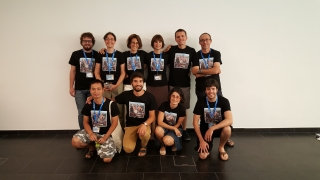
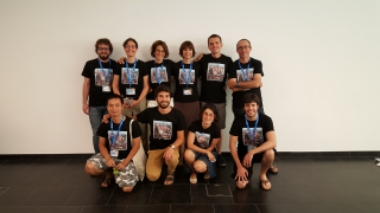
oth

diff --git a/CV/index.html b/CV/index.html
@@ -18,7 +18,7 @@
                 <div class="container">
                 <div class="blurb">
                         <h2>Education</h2>
-                            <p><img src="/CV/composes-team.jpg" width="320" height="180" style="float:right" hspace="20" /></p>
+                            <p><img src="/CV/composes-team.jpg" width="380" height="213" style="float:right" hspace="20" /></p>
                             <p><a href="/CV/Pezzelle_CVS_2017.pdf" target="_blank">Europass Curriculum Vitae et Studiorum</a></p>
                                         
                         <ul>
